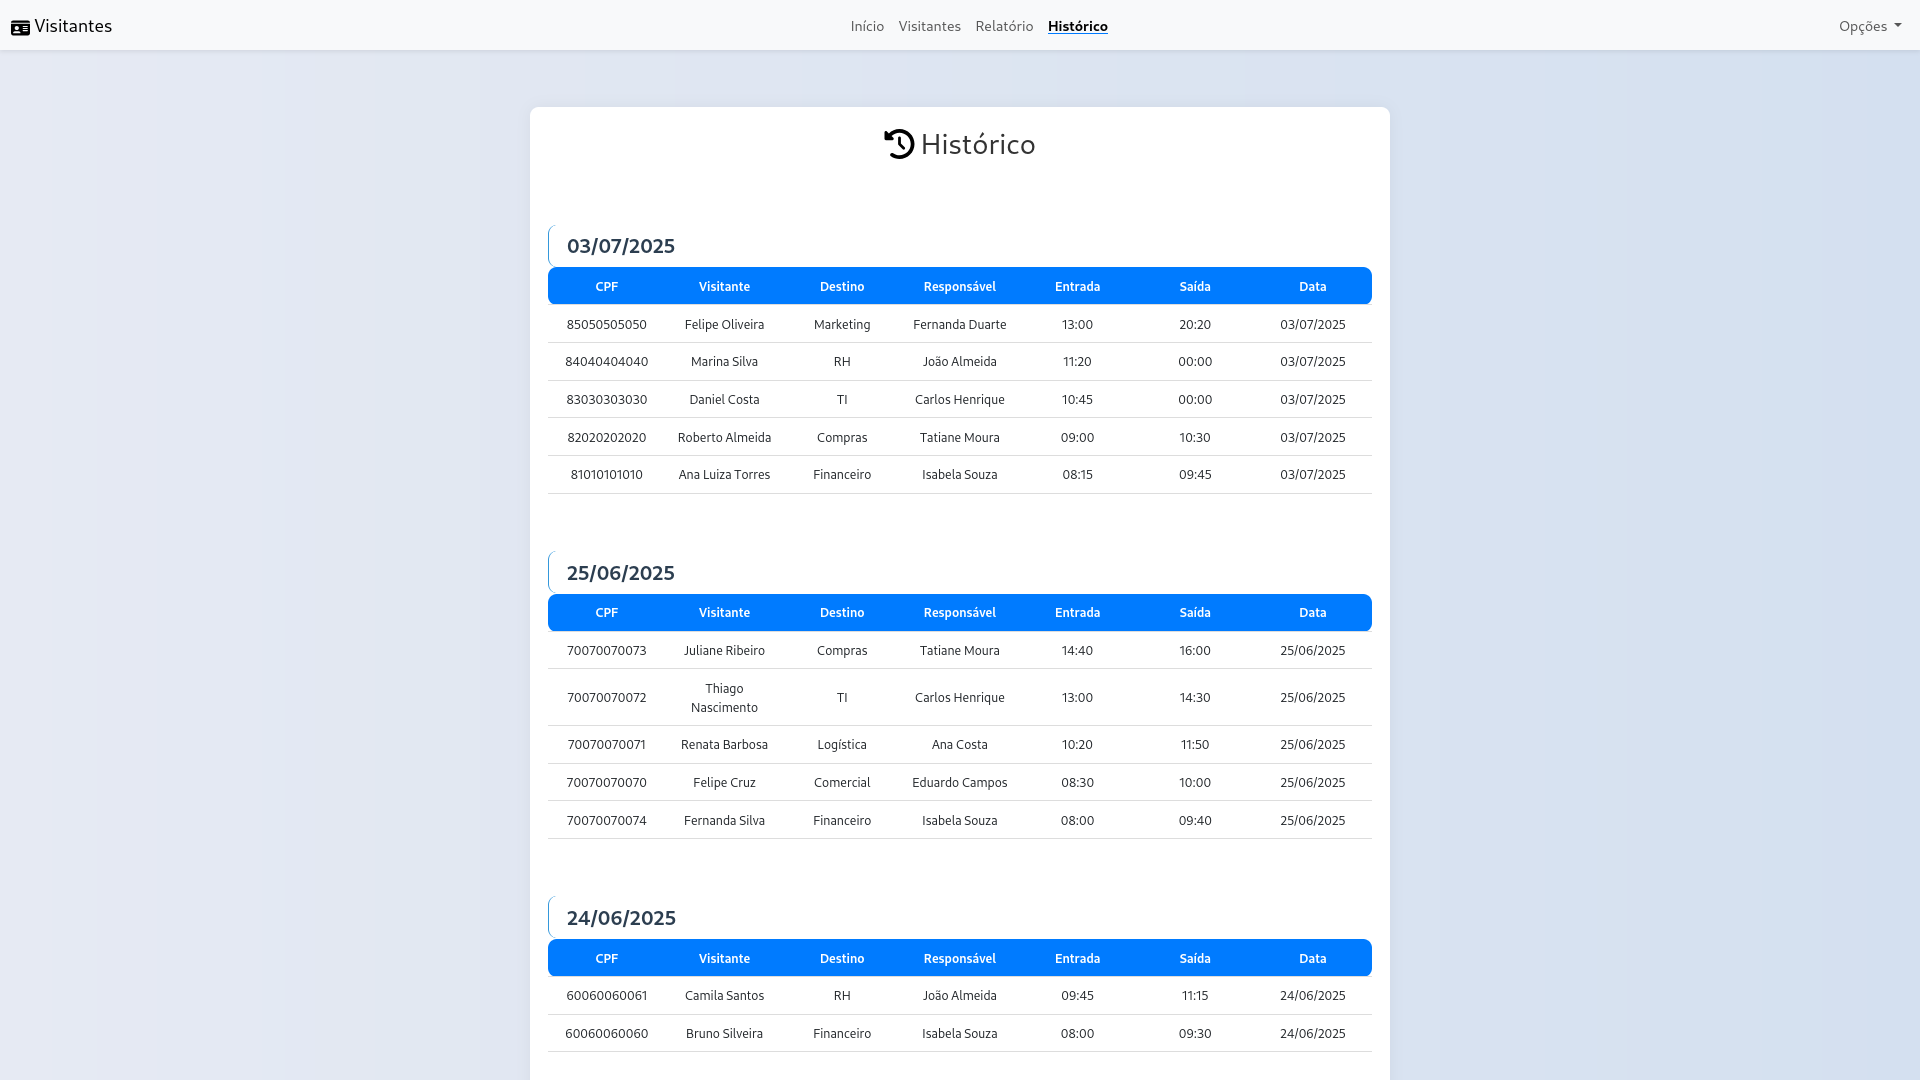
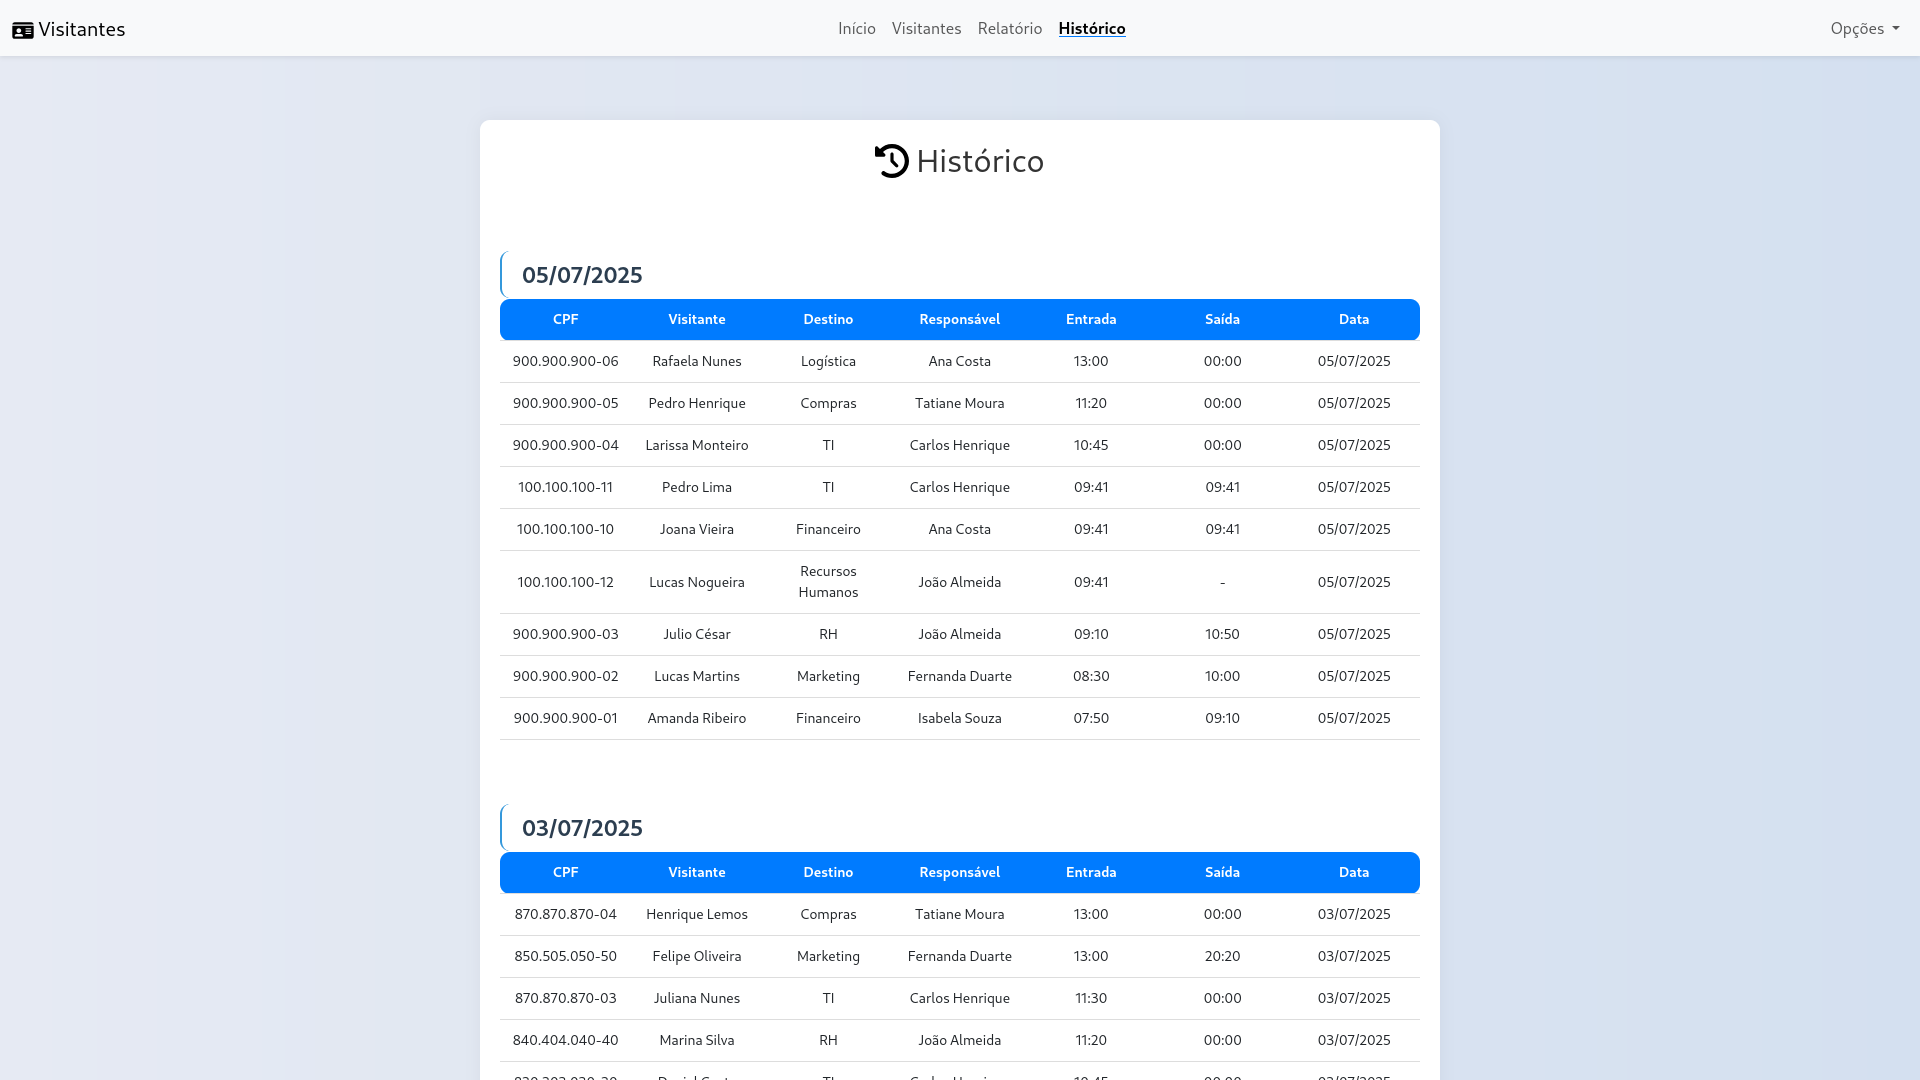
Finalizado

Changed region(s): [[0.25, 0.0917, 0.75, 1.0], [0.125, 0.0, 1.0, 0.0611], [0.0, 0.0, 0.0625, 0.0611]]

diff --git a/public/styles/visitantes.css b/public/styles/visitantes.css
@@ -6,9 +6,11 @@ body {
 }
 
 .container-dashboard {
-  max-width: 1000px;
+  max-width: 1200px;
   margin: 100px auto 30px auto;
   padding: 20px;
+  display: flex;
+  align-items: center;
 }
 
 .titulo-pagina {
